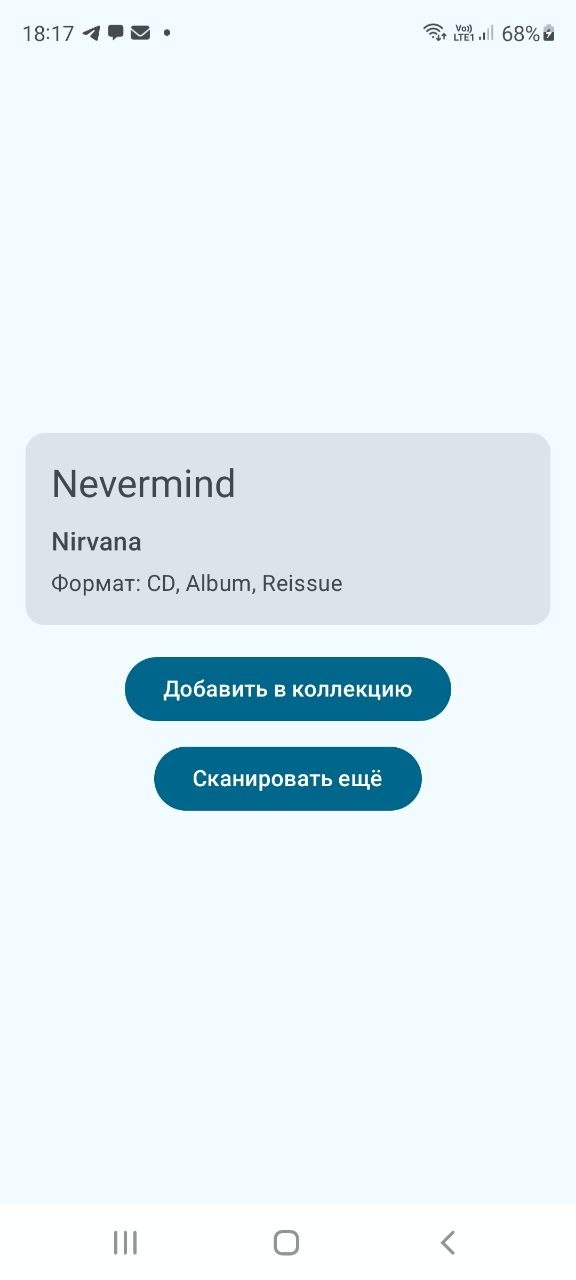
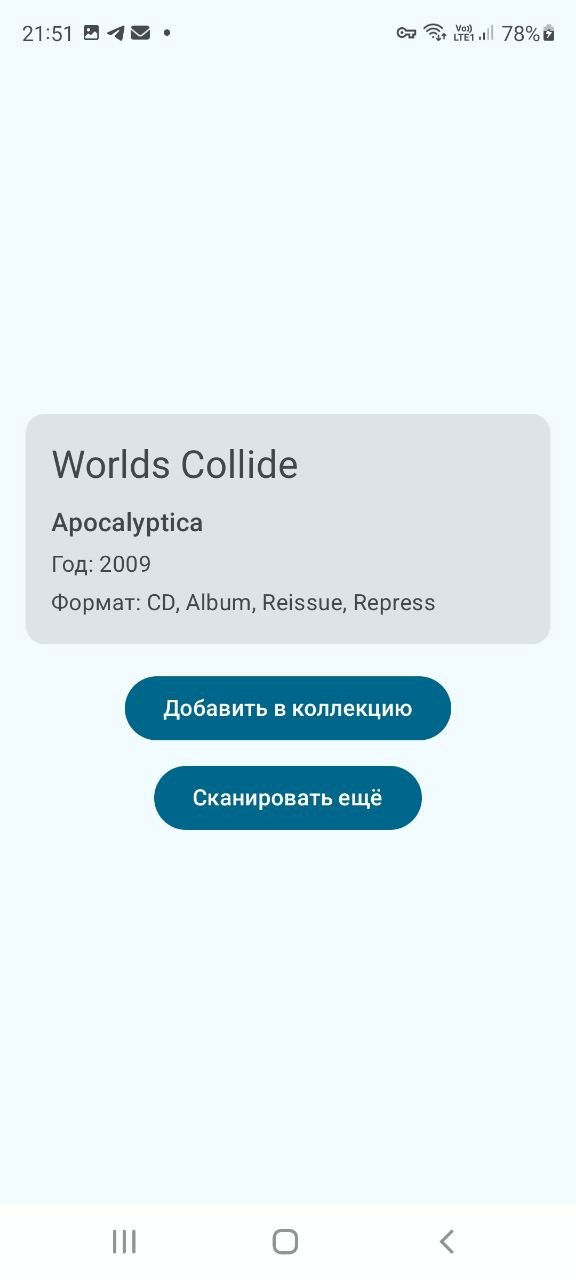
Add CameraX + ML Kit barcode scanning

diff --git a/feature/scan/src/main/java/com/kai/cdvinylcatalog/feature/scan/CameraPreview.kt b/feature/scan/src/main/java/com/kai/cdvinylcatalog/feature/scan/CameraPreview.kt
@@ -1,0 +1,76 @@
+package com.kai.cdvinylcatalog.feature.scan
+
+import androidx.camera.core.CameraSelector
+import androidx.camera.core.ImageAnalysis
+import androidx.camera.mlkit.vision.MlKitAnalyzer
+import androidx.camera.view.LifecycleCameraController
+import androidx.camera.view.PreviewView
+import androidx.compose.foundation.layout.fillMaxSize
+import androidx.compose.runtime.*
+import androidx.compose.ui.Modifier
+import androidx.compose.ui.platform.LocalContext
+import androidx.compose.ui.platform.LocalLifecycleOwner
+import androidx.compose.ui.viewinterop.AndroidView
+import androidx.core.content.ContextCompat
+import com.google.mlkit.vision.barcode.BarcodeScannerOptions
+import com.google.mlkit.vision.barcode.BarcodeScanning
+import com.google.mlkit.vision.barcode.common.Barcode
+
+@Composable
+fun CameraPreview(
+    onBarcodeDetected: (String) -> Unit,
+    modifier: Modifier = Modifier
+) {
+    val context = LocalContext.current
+    val lifecycleOwner = LocalLifecycleOwner.current
+
+    // 1. Создаем BarcodeScanner
+    val barcodeScanner = remember {
+        val options = BarcodeScannerOptions.Builder()
+            .setBarcodeFormats(
+                Barcode.FORMAT_EAN_13,
+                Barcode.FORMAT_EAN_8,
+                Barcode.FORMAT_UPC_A,
+                Barcode.FORMAT_UPC_E
+            )
+            .build()
+        BarcodeScanning.getClient(options)
+    }
+
+    // 2. Создаем и запоминаем CameraController
+    val cameraController = remember {
+        LifecycleCameraController(context).apply {
+            // Привязываем контроллер к жизненному циклу
+            bindToLifecycle(lifecycleOwner)
+            // Выбираем заднюю камеру
+            cameraSelector = CameraSelector.DEFAULT_BACK_CAMERA
+        }
+    }
+
+    // 3. Настраиваем анализатор для контроллера
+    LaunchedEffect(cameraController, barcodeScanner) {
+        cameraController.setImageAnalysisAnalyzer(
+            ContextCompat.getMainExecutor(context),
+            MlKitAnalyzer(
+                listOf(barcodeScanner),
+                ImageAnalysis.COORDINATE_SYSTEM_ORIGINAL,
+                ContextCompat.getMainExecutor(context)
+            ) { result ->
+                val barcodes = result.getValue(barcodeScanner)
+                barcodes?.firstOrNull()?.rawValue?.let { onBarcodeDetected(it) }
+            }
+        )
+    }
+
+    // 4. Отображаем PreviewView и связываем его с контроллером
+    AndroidView(
+        modifier = modifier.fillMaxSize(),
+        factory = { ctx ->
+            PreviewView(ctx).apply {
+                scaleType = PreviewView.ScaleType.FILL_CENTER
+                // Ключевая строка: связываем PreviewView с контроллером
+                controller = cameraController
+            }
+        }
+    )
+}

diff --git a/feature/scan/src/main/java/com/kai/cdvinylcatalog/feature/scan/ScanScreen.kt b/feature/scan/src/main/java/com/kai/cdvinylcatalog/feature/scan/ScanScreen.kt
@@ -52,28 +52,20 @@ fun ScanScreen(
                     onScanAgain = { onIntent(ScanContract.Intent.OnScanAgainClicked) }
                 )
             }
-            else -> {
-                ScannerPlaceholder(
-                    onBarcodeScanned = { barcode ->
-                        onIntent(ScanContract.Intent.OnBarcodeScanned(barcode))
+            else ->  {
+                CameraPermissionHandler(
+                    onPermissionGranted = {
+                        CameraPreview(
+                            onBarcodeDetected = { barcode ->
+                                onIntent(ScanContract.Intent.OnBarcodeScanned(barcode))
+                            }
+                        )
+                    },
+                    onPermissionDenied = {
+                        Text("Нет доступа к камере. Разрешите в настройках.")
                     }
                 )
             }
-        }
-    }
-}
-
-@Composable
-private fun ScannerPlaceholder(onBarcodeScanned: (String) -> Unit) {
-    Column(horizontalAlignment = Alignment.CenterHorizontally) {
-        Text(
-            text = "Наведите камеру на штрихкод",
-            style = MaterialTheme.typography.titleMedium
-        )
-        Spacer(modifier = Modifier.height(16.dp))
-        // Временная кнопка для теста — потом заменим на CameraX
-        Button(onClick = { onBarcodeScanned("720642442524") }) {
-            Text("Симулировать сканирование")
         }
     }
 }

diff --git a/feature/scan/src/main/java/com/kai/cdvinylcatalog/feature/scan/CameraPermissionHandler.kt b/feature/scan/src/main/java/com/kai/cdvinylcatalog/feature/scan/CameraPermissionHandler.kt
@@ -1,0 +1,48 @@
+package com.kai.cdvinylcatalog.feature.scan
+
+import android.Manifest
+import androidx.compose.runtime.Composable
+import androidx.compose.runtime.LaunchedEffect
+import androidx.compose.ui.platform.LocalContext
+import androidx.compose.runtime.remember
+import androidx.activity.compose.rememberLauncherForActivityResult
+import androidx.activity.result.contract.ActivityResultContracts
+import androidx.core.content.ContextCompat
+import android.content.pm.PackageManager
+import androidx.compose.runtime.getValue
+import androidx.compose.runtime.mutableStateOf
+import androidx.compose.runtime.setValue
+
+@Composable
+fun CameraPermissionHandler(
+    onPermissionGranted: @Composable () -> Unit,
+    onPermissionDenied: @Composable () -> Unit
+) {
+    val context = LocalContext.current
+
+    var permissionState by remember {
+        mutableStateOf(
+            ContextCompat.checkSelfPermission(
+                context,
+                Manifest.permission.CAMERA
+            ) == PackageManager.PERMISSION_GRANTED
+        )
+    }
+
+    val launcher = rememberLauncherForActivityResult(
+        ActivityResultContracts.RequestPermission()
+    ) { granted ->
+        permissionState = granted
+    }
+
+    LaunchedEffect(Unit) {
+        if (!permissionState) {
+            launcher.launch(Manifest.permission.CAMERA)
+        }
+    }
+
+    when {
+        permissionState -> onPermissionGranted()
+        else -> onPermissionDenied()
+    }
+}
